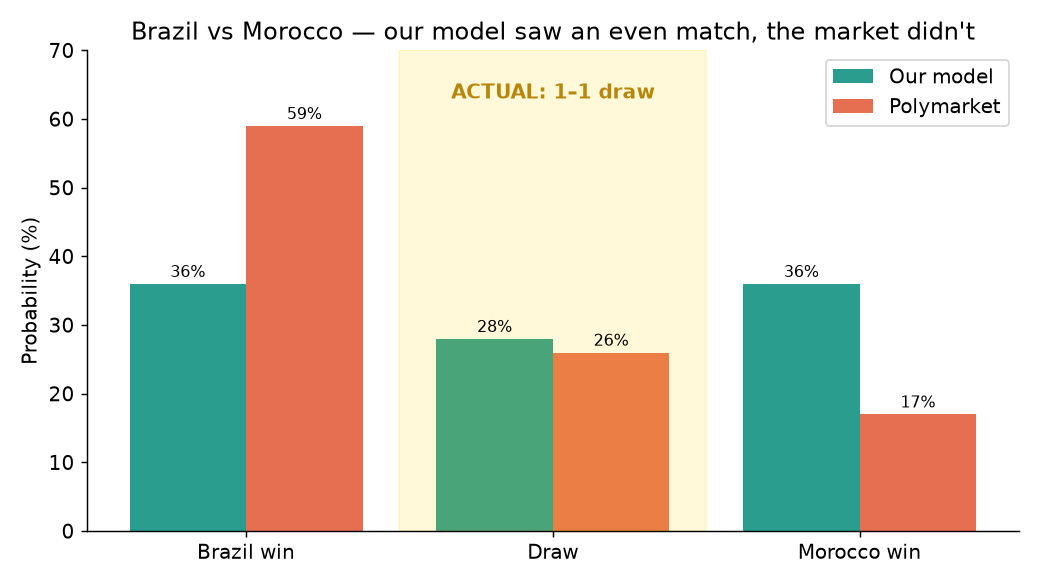
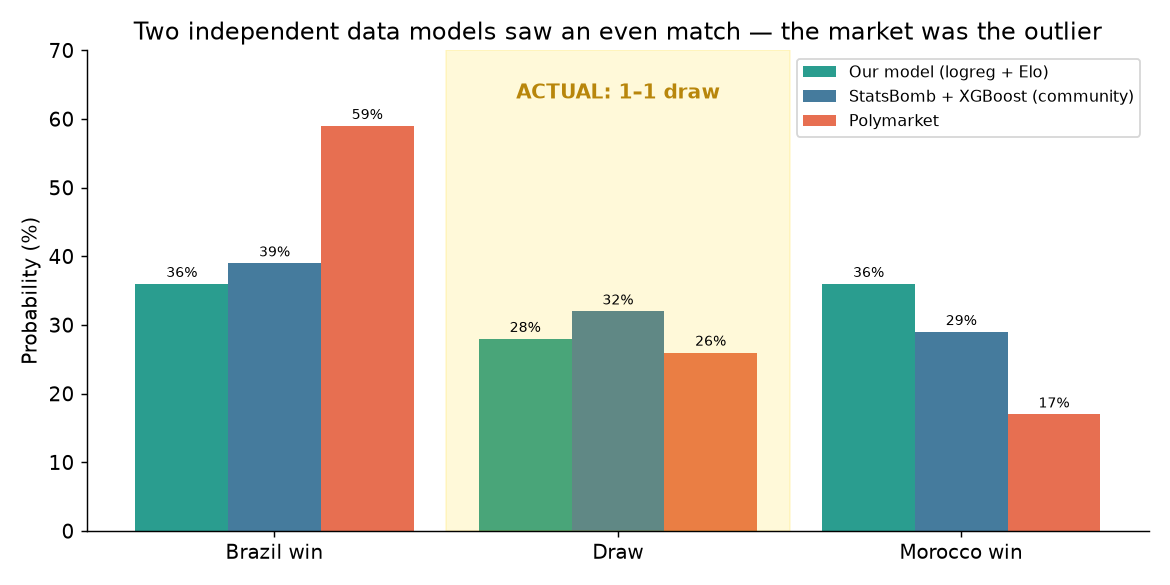
Add independent StatsBomb+XGBoost model to Brazil-Morocco comparison
A community model (StatsBomb events + XGBoost, 20 features) predicted
39/32/29 — converging with ours (36/28/36) and far from the market
(59/26/17). Two independent data-driven methods agree the match was even;
the market was the outlier. Updated chart (3 series), README, POSTMORTEM.

diff --git a/make_viz.py b/make_viz.py
@@ -10,22 +10,25 @@ plt.rcParams.update({"font.size": 11, "figure.dpi": 130})
 # ── 1. Prediction vs market for Brazil–Morocco ──────────────────────────
 outcomes = ["Brazil win", "Draw", "Morocco win"]
 ours = [36, 28, 36]
+statsbomb = [39, 32, 29]   # independent StatsBomb + XGBoost model (community)
 market = [59, 26, 17]
 x = np.arange(len(outcomes))
-w = 0.38
+w = 0.27
 
-fig, ax = plt.subplots(figsize=(8, 4.5))
-ax.bar(x - w / 2, ours, w, label="Our model", color="#2a9d8f")
-ax.bar(x + w / 2, market, w, label="Polymarket", color="#e76f51")
+fig, ax = plt.subplots(figsize=(9, 4.5))
+ax.bar(x - w, ours, w, label="Our model (logreg + Elo)", color="#2a9d8f")
+ax.bar(x, statsbomb, w, label="StatsBomb + XGBoost (community)", color="#457b9d")
+ax.bar(x + w, market, w, label="Polymarket", color="#e76f51")
 ax.axvspan(0.5, 1.5, color="gold", alpha=0.15)
 ax.text(1, 63, "ACTUAL: 1–1 draw", ha="center", fontweight="bold", color="#b8860b")
 ax.set_xticks(x); ax.set_xticklabels(outcomes)
 ax.set_ylabel("Probability (%)"); ax.set_ylim(0, 70)
-ax.set_title("Brazil vs Morocco — our model saw an even match, the market didn't")
-ax.legend(); ax.spines[["top", "right"]].set_visible(False)
-for i, (o, m) in enumerate(zip(ours, market)):
-    ax.text(i - w / 2, o + 1, f"{o}%", ha="center", fontsize=9)
-    ax.text(i + w / 2, m + 1, f"{m}%", ha="center", fontsize=9)
+ax.set_title("Two independent data models saw an even match — the market was the outlier")
+ax.legend(fontsize=9); ax.spines[["top", "right"]].set_visible(False)
+for i, (o, s, m) in enumerate(zip(ours, statsbomb, market)):
+    ax.text(i - w, o + 1, f"{o}%", ha="center", fontsize=8)
+    ax.text(i, s + 1, f"{s}%", ha="center", fontsize=8)
+    ax.text(i + w, m + 1, f"{m}%", ha="center", fontsize=8)
 fig.tight_layout(); fig.savefig("assets/prediction_vs_market.png"); plt.close(fig)
 
 # ── 2. Accuracy by version (the feature-engineering story) ──────────────

diff --git a/POSTMORTEM.md b/POSTMORTEM.md
@@ -38,6 +38,16 @@ many predictions. And the draw (28%) was actually below our two "win" probabilit
 so the model didn't "predict a draw" — it predicted an **even contest**, and an even
 contest is what happened (the xG tie is the real vindication, not the scoreline).
 
+## Independent corroboration
+
+A separate model built with **StatsBomb event data + XGBoost (20 features)**
+predicted **Brazil 39% / draw 32% / Morocco 29%** — right next to ours
+(36/28/36) and far from the market (59/26/17). Two independent results-based
+methods (our logreg + Elo, their XGBoost + xG) converged on "even match";
+the market was the outlier. Notably their approach needed far more data
+engineering (event data + a supplementary Copa América source for missing
+matches) to reach essentially the same answer our simpler Elo model gave.
+
 ## What this confirms
 
 - Our **Elo feature** saw Morocco's strength the market underrated → data > hype here.

diff --git a/README.md b/README.md
@@ -9,10 +9,12 @@ up against a $12M betting market on real World Cup matches.
 
 > **Brazil vs Morocco:** the model called an even match (36/28/36) while the
 > market heavily favoured Brazil (59/26/17). It finished **1–1**, with
-> near-identical expected goals (1.28 vs 1.24).
+> near-identical expected goals (1.28 vs 1.24). An independent StatsBomb +
+> XGBoost model landed in the same place (39/32/29) — two different methods,
+> same read, with the market as the outlier.
 
 <p align="center">
-  <img src="assets/prediction_vs_market.png" width="80%">
+  <img src="assets/prediction_vs_market.png" width="85%">
 </p>
 
 ---